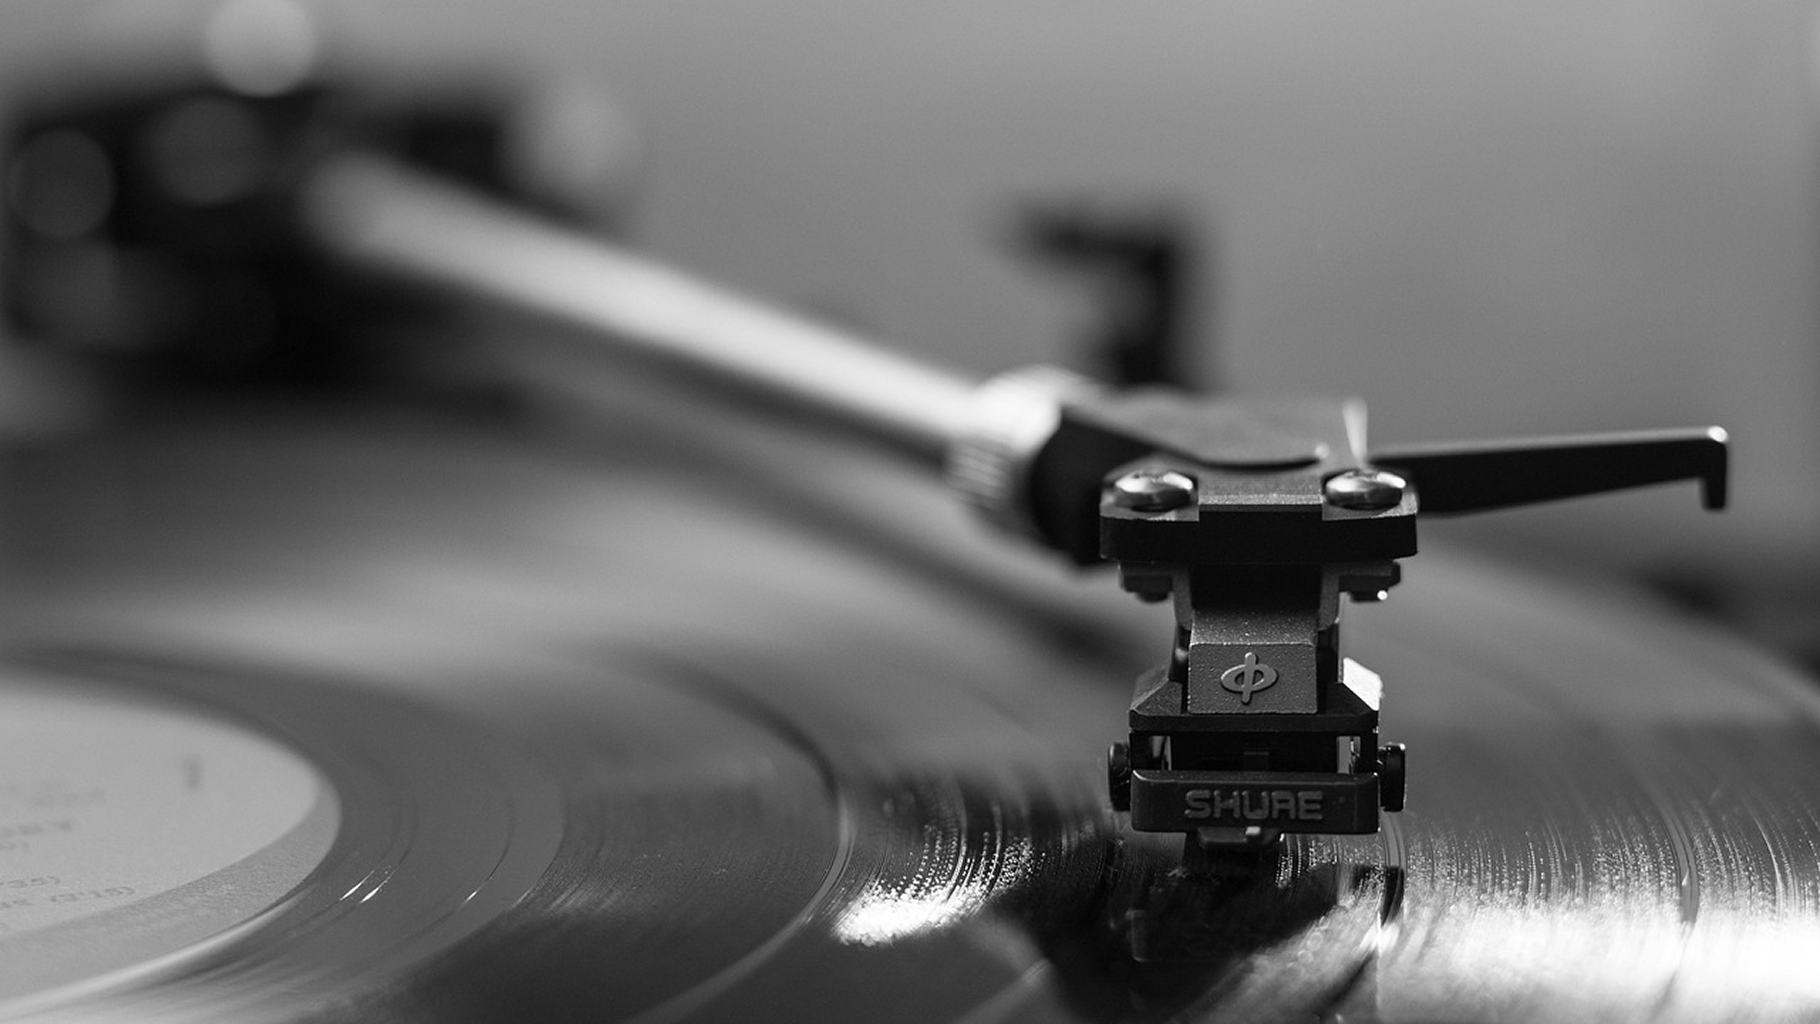
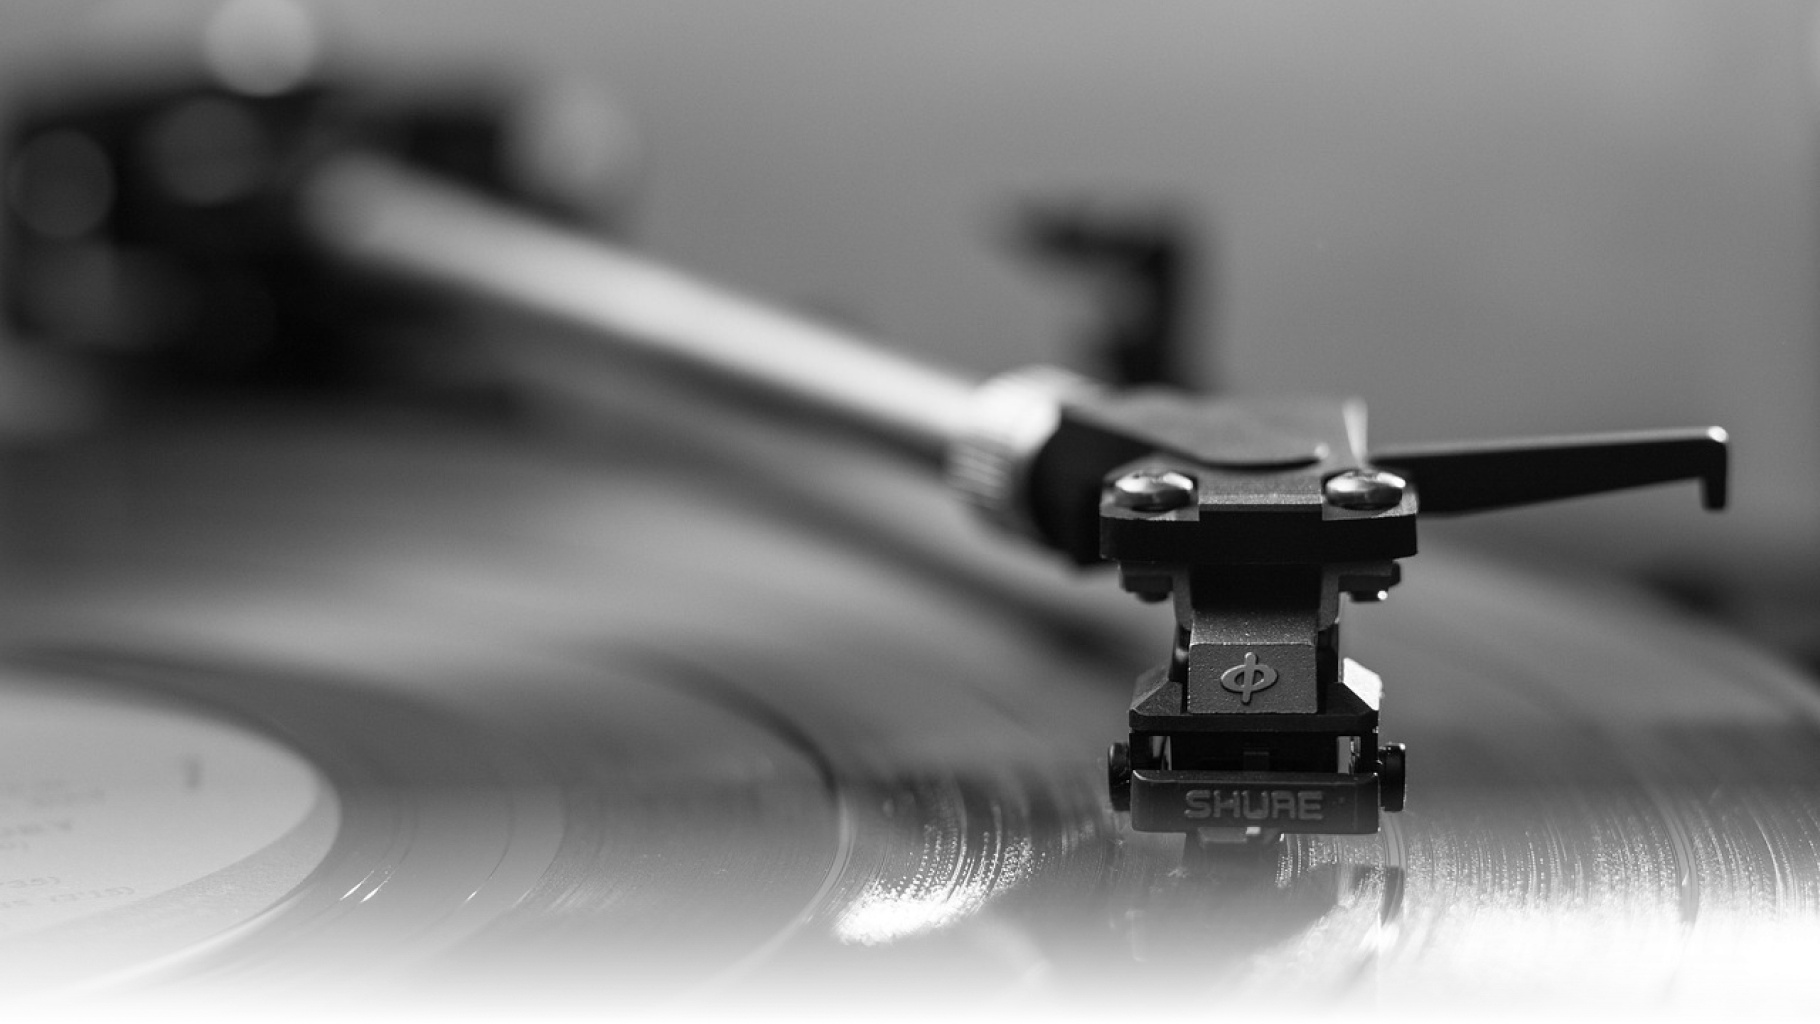
0705night

Changed region(s): [[0.0, 0.7812, 1.0, 1.0]]

diff --git a/src/App.css b/src/App.css
@@ -7,10 +7,11 @@
     --font-size-h3: 17px;
 }
 
-h2 {
+h2,.PlayList input {
     font-size: var(--font-size-h2);
     font-weight: 500;
     letter-spacing: 1px;
+    line-height: 30px;
 }
 
 h3 {
@@ -42,8 +43,14 @@ body {
     color: #fff;
     background-color: #000000;
     background-image: url(./assets/background_cd.png);
-    background-size: cover;
+    /* background-size: cover; */
     background-attachment: fixed;
+    background-size: 100%;
+    background-repeat: no-repeat;
+    background-color: #606060;
+    background-position: top center;
+    /* mask-image: linear-gradient(0deg,transparent 90%,white 100); */
+    
 }
 
 .TrackList::-webkit-scrollbar {
@@ -181,15 +188,60 @@ body {
     flex-direction: column;
     align-items: center;
     justify-content: flex-start;
-    gap: 16px;
+    gap: 8px;
     /* width: 480px; */
-    padding: 32px 0px;
+    
     background-color: rgba(0, 0, 0, 0.3);
     backdrop-filter: blur(50px);
     border-radius: 8px;
     height: 100%;
     flex: 1 1 0;
     min-width: 0;
+}
+
+.PlayList{
+    padding: 32px 0px;
+}
+
+.PlayList-header{
+    display: flex;
+    /* align-items: center; */
+    justify-content: center;
+    /* flex-direction: row; */
+    gap: 8px;
+    width: 100%;
+    padding: 0 40px;
+    /* justify-self: flex-start; */
+}
+
+.PlayList input{
+    field-sizing: content;
+    max-width: 100%;
+    text-align: center;
+    color: #ffffff;
+    background-color: transparent;
+    border: none;
+    text-overflow: ellipsis;
+    outline:none;
+    /* transition: all 0.2s ease; */
+}
+
+.PlayList input:focus{
+    text-decoration: underline;
+    text-decoration-color:#fff ;
+    text-underline-offset: 7px;
+    text-decoration-thickness: 1px;
+}
+
+.ic-edit {
+    width: 20px;
+    color: #fff;
+    flex-shrink: 0;
+    opacity: .5;
+}
+
+.SearchResult{
+    padding: 32px 0px 0 0;
 }
 
 .TrackList {
@@ -201,6 +253,7 @@ body {
     overflow-y: auto;
     flex: 0 1 auto;
     scrollbar-gutter: stable;
+    padding-bottom: 16px;
     /* flex-grow: 1; */
     /* gap: 16px; */
     /* max-height: 300px; */
@@ -214,7 +267,7 @@ body {
     justify-content: space-between;
     gap: 12px;
     width: 100%;
-    height: 64px;
+    height: 72px;
     padding: 0 0 0 24px;
     border-radius: 0px;
     flex: none;
@@ -222,7 +275,6 @@ body {
 }
 
 .Track:not(:last-child)::after {
-    /* border-bottom: .5px solid #ffffff2e; */
     content: "";
     position: absolute;
     bottom: 0;
@@ -231,6 +283,7 @@ body {
     height: 0.5px;
     background-color: #ffffff2e;
 }
+
 
 .PlayList-save {
     /* width: 100%; */
@@ -255,14 +308,14 @@ body {
     mask-image: radial-gradient(circle at center, transparent 11%, rgba(0, 0, 0, .3) 11.1%, rgba(0, 0, 0, .3) 20%, black 20.1%);
     /* mask-image: radial-gradient(circle at center, transparent 15%, black 15.5%); */
     /* object-fit: cover; */
-    background-image: url(./assets/border.png),conic-gradient(from 15deg,
+    /* background-image: url(./assets/border.png),conic-gradient(from 15deg,
             rgba(255, 255, 255, 0.05) 0%,
             rgba(255, 255, 255, 0.6) 15%,
             rgba(255, 255, 255, 0.05) 30%,
             rgba(255, 255, 255, 0.05) 50%,
             rgba(255, 255, 255, 0.6) 65%,
             rgba(255, 255, 255, 0.05) 80%,
-            rgba(255, 255, 255, 0.05) 100%), url(./assets/music1.png);
+            rgba(255, 255, 255, 0.05) 100%), url(./assets/music1.png); */
     background-size: cover;
     background-position: center;
     background-blend-mode: normal,overlay,normal;
@@ -310,15 +363,24 @@ button:active {
 
 
 @media screen and (max-width: 1024px) {
+    body{
+            background-size: 200%;
+    }
+
     .StateBar {
         background-color: transparent;
         backdrop-filter: none;
+        /* top:40px; */
+        position: relative;
+        
     }
 
     .logo-jam {
         /* position: relative; */
         /* bottom: 0; */
         /* color: #; */
+        bottom: -64px;
+
     }
 
     .App {
@@ -348,14 +410,39 @@ button:active {
         order: 1;
     } */
 
-    .SearchResult{
+    /* .SearchResult{
         order: 1;
-    }
+    } */
 
     .SearchResult,PlayList {
         height: auto;
         flex:none;
-
     }
     
+    /* .Track{
+        padding: 0 24px;
+    } */
+
+}
+
+@media (hover: none) and (pointer: coarse) {
+    
+    /* 1. 废除电脑端的滚动条占位，因为触控设备都是悬浮滚动条 */
+    .TrackList {
+        scrollbar-gutter: auto; 
+    }
+
+    /* 2. 隐藏难看的默认滚动条，完全依赖手指顺滑滚动 */
+    .TrackList::-webkit-scrollbar {
+        display: none; 
+    }
+
+    /* 3. 恢复完美的左右 24px 物理对称！ */
+    .Track {
+        padding: 0 24px; 
+    }
+
+    .Track:not(:last-child)::after {
+        right: 24px;
+    }
 }

diff --git a/src/App.jsx b/src/App.jsx
@@ -1,19 +1,48 @@
 import React from 'react';
+import { useState } from 'react';
 import PlayList from './components/PlayList';
 import SearchBar from './components/SearchBar';
 import SearchResult from './components/SearchResult';
 import StateBar from './components/StateBar';
 import './App.css';
+import musicCover from './assets/music1.png';
+
 
 export default function App() {
+  const [searchResults, setSearchResults] = useState([
+    { id: 1, name: "Track 1", artist: "Artist 1", album: "Album 1" , cover: musicCover },
+    { id: 2, name: 'Yellow', artist: 'Coldplay', album: 'Parachutes' ,cover: musicCover},
+    { id: 3, name: 'Viva La Vida', artist: 'Coldplay', album: 'Death and All His Friends' ,cover: musicCover },
+    { id: 4, name: 'Fix You', artist: 'Coldplay', album: 'X&Y' , cover: musicCover}
+  ]);
+  // setSearchResults()
+
+  const [title, setTitle] = useState('My Playlist');
+  function handChange({target}){
+    setTitle(target.value);
+  }
+
+  const [playlistTracks, setPlaylistTracks] = useState([]);
+  function addTrack(track) {
+    console.log("添加成功，歌曲名称：", track.name);
+    // playlistTracks.find(item => (item.id !== track.id) ? setPlaylistTracks(prev => [track, ...prev]) : null)
+    const isAllreadyInPlaylist = playlistTracks.find(item => item.id === track.id);
+    isAllreadyInPlaylist ? null : setPlaylistTracks(prev => [track, ...prev]);
+  }
+  function removeTrack(track) {
+    console.log("移除成功，歌曲名称：", track.name);
+    setPlaylistTracks(prev => prev.filter(item => item.id !== track.id));
+  }
+
+
+
   return (
     <div className="App">
-      {/* <h1>Ja<span className="highlight">mmm</span>ing</h1> */}
       <StateBar />
       <SearchBar />
       <div className="App-twolists">
-        <SearchResult />
-        <PlayList />
+        <SearchResult searchResults={searchResults} onAdd={addTrack} isRemoved={false} />
+        <PlayList title={title} tracks={playlistTracks} onRemove={removeTrack} handChange={handChange} isRemoved={true} />
       </div>
     </div>
   );

diff --git a/src/components/PlayList.jsx b/src/components/PlayList.jsx
@@ -1,11 +1,27 @@
 import React from 'react';
 import TrackList from './TrackList';
 
-export default function PlayList(props){
-    return(
+export default function PlayList({ title, tracks, onRemove, handChange, isRemoved }) {
+    return (
         <div className="PlayList">
-            <h2>PlayList</h2>
-            <TrackList />
+            {/* <h2>{title}</h2> */}
+            <div className='PlayList-header'>
+                <input value={title} type="text" onChange={handChange} />
+                <svg
+                    xmlns="http://www.w3.org/2000/svg"
+                    // width="24"
+                    // height="24"
+                    viewBox="0 0 24 24"
+                    className='ic-edit'
+                >
+                    <path
+                        fill="currentColor"
+                        // fillOpacity="0.5"
+                        d="M20.71 7.04c.39-.39.39-1.04 0-1.41l-2.34-2.34c-.37-.39-1.02-.39-1.41 0l-1.84 1.83 3.75 3.75M3 17.25V21h3.75L17.81 9.93l-3.75-3.75z"
+                    ></path>
+                </svg>
+            </div>
+            <TrackList tracks={tracks} onRemove={onRemove} isRemoved={isRemoved} />
             <button className="PlayList-save">SAVE TO SPOTIFY</button>
         </div>
     )

diff --git a/src/components/Track.jsx b/src/components/Track.jsx
@@ -1,15 +1,27 @@
 import React from 'react';
+import borderCover from '../assets/border.png';
 // import musicPic from '../assets/music1.png';
 
-export default function Track(props) {
+export default function Track({ track, onAdd, isRemoved, onRemove }) {
     return (
         <div className="Track">
-            <div className="Album-cover" ></div>
+            <div className="Album-cover" style={{
+                backgroundImage: `url(${borderCover}),conic-gradient(from 15deg,
+            rgba(255, 255, 255, 0.05) 0%,
+            rgba(255, 255, 255, 0.6) 15%,
+            rgba(255, 255, 255, 0.05) 30%,
+            rgba(255, 255, 255, 0.05) 50%,
+            rgba(255, 255, 255, 0.6) 65%,
+            rgba(255, 255, 255, 0.05) 80%,
+            rgba(255, 255, 255, 0.05) 100%),url(${track.cover})`
+            }} ></div>
             <div className="Track-information">
-                <h3 className="Song-title">Song Title (Hardcoded)</h3>
-                <p className="Song-artist">Artist Name | Album Name</p>
+                <h3 className="Song-title">{track.name}</h3>
+                <p className="Song-artist">{track.artist} | {track.album}</p>
             </div>
-            <button className="Track-action">+</button>
+            <button className="Track-action" onClick={() => isRemoved ? onRemove(track) : onAdd(track)}>
+                {isRemoved ? "-" : "+"} 
+            </button>
         </div>
     )
 }

diff --git a/src/components/TrackList.jsx b/src/components/TrackList.jsx
@@ -1,12 +1,12 @@
 import React from 'react';
 import Track from './Track';
 
-export default function TrackList(props){
+export default function TrackList({ tracks, onAdd, onRemove, isRemoved }) {
     return(
         <div className="TrackList">
-            <Track />
-            <Track />
-            <Track />
+            {
+                tracks && tracks.map(track => <Track key={track.id} track={track} onAdd={onAdd} onRemove={onRemove} isRemoved={isRemoved} />)
+            }
         </div>
     )
 }

diff --git a/src/components/SearchResult.jsx b/src/components/SearchResult.jsx
@@ -1,11 +1,12 @@
 import React from 'react';
 import TrackList from './TrackList';
 
-export default function SearchResult(props){
+export default function SearchResult({ searchResults, onAdd, isRemoved }) {
+    
     return(
         <div className="SearchResult">
             <h2>Results</h2>
-            <TrackList />
+            <TrackList tracks={searchResults} onAdd={onAdd} isRemoved={isRemoved}/>
         </div>
     )
 }